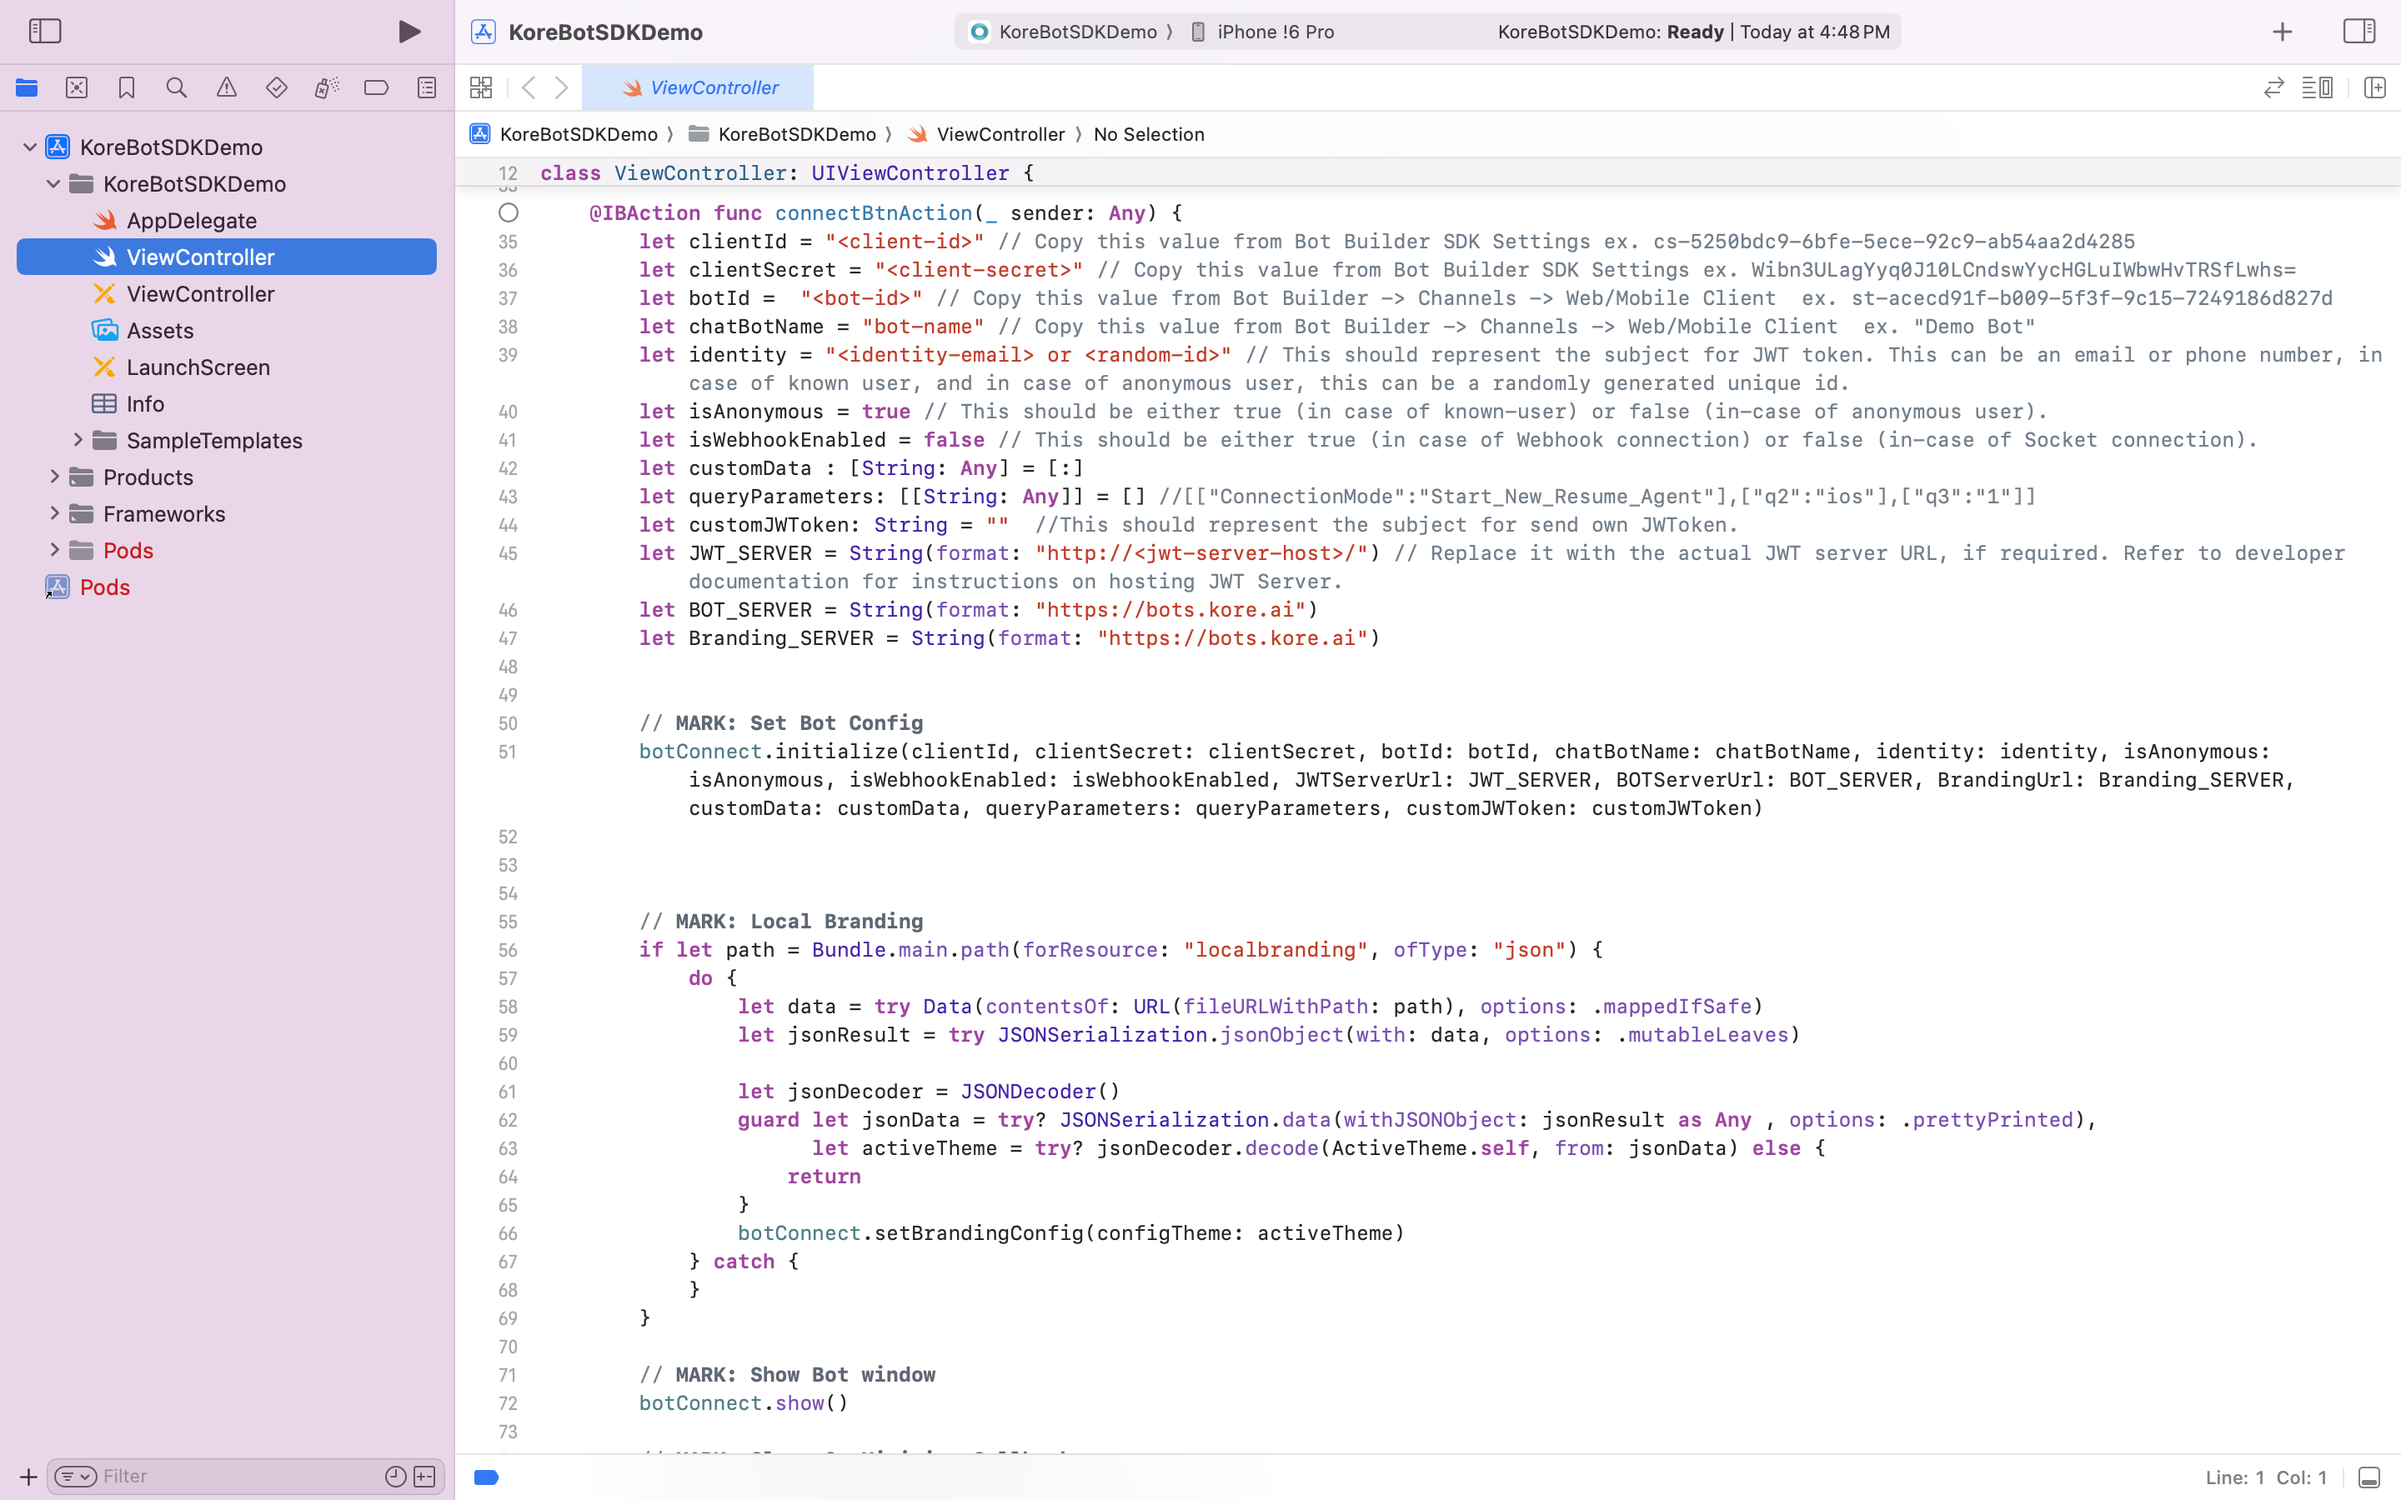
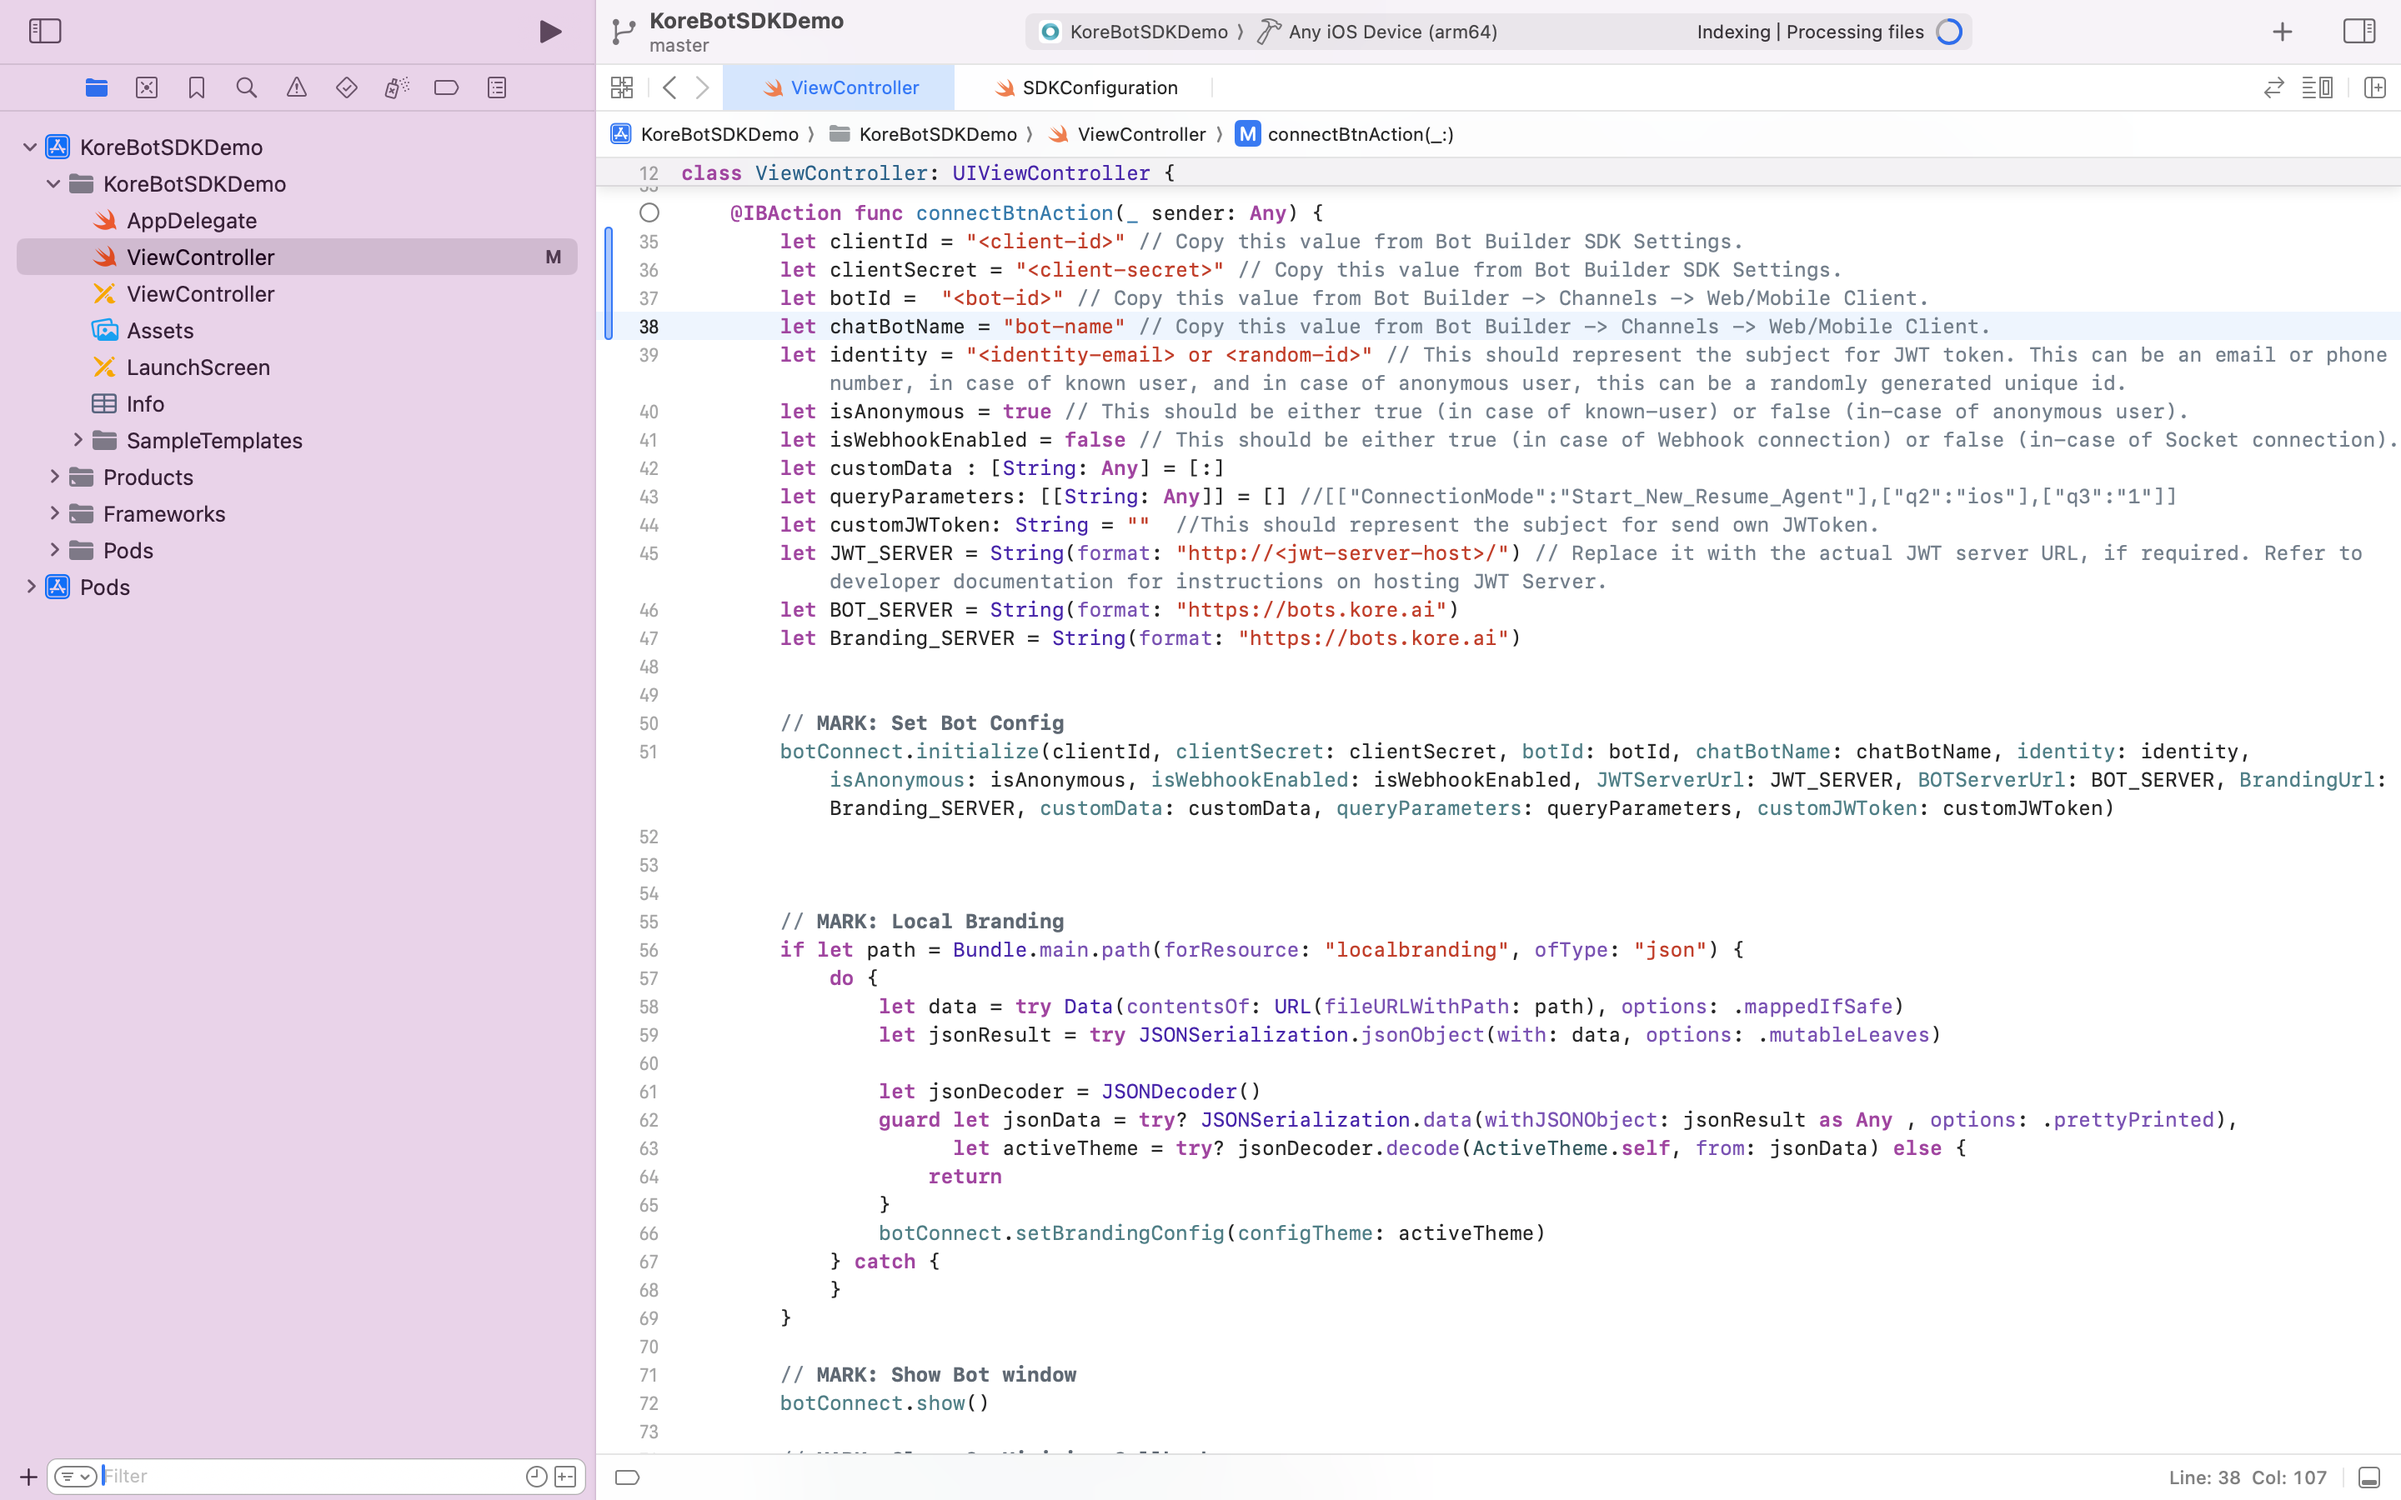
Updated integration document

diff --git a/Sources/KoreBotSDK/AppKit/Common/SDKConfiguration.swift b/Sources/KoreBotSDK/AppKit/Common/SDKConfiguration.swift
@@ -16,13 +16,13 @@ class SDKConfiguration: NSObject {
     }
     
     struct botConfig {
-        public static var clientId = "<client-id>" // Copy this value from Bot Builder SDK Settings ex. cs-5250bdc9-6bfe-5ece-92c9-ab54aa2d4285
+        public static var clientId = "<client-id>" // Copy this value from Bot Builder SDK Settings.
         
-        public static var clientSecret = "<client-secret>" // Copy this value from Bot Builder SDK Settings ex. Wibn3ULagYyq0J10LCndswYycHGLuIWbwHvTRSfLwhs=
+        public static var clientSecret = "<client-secret>" // Copy this value from Bot Builder SDK Settings.
         
-        public static var botId =  "<bot-id>" // Copy this value from Bot Builder -> Channels -> Web/Mobile Client  ex. st-acecd91f-b009-5f3f-9c15-7249186d827d
+        public static var botId =  "<bot-id>" // Copy this value from Bot Builder -> Channels -> Web/Mobile Client.
 
-        public static var chatBotName = "bot-name" // Copy this value from Bot Builder -> Channels -> Web/Mobile Client  ex. "Demo Bot"
+        public static var chatBotName = "bot-name" // Copy this value from Bot Builder -> Channels -> Web/Mobile Client.
         
         public static var identity = "<identity-email> or <random-id>"// This should represent the subject for JWT token. This can be an email or phone number, in case of known user, and in case of anonymous user, this can be a randomly generated unique id.
         
@@ -62,13 +62,13 @@ class SDKConfiguration: NSObject {
     }
    
     struct widgetConfig {
-        static let clientId = "<client-id>" // Copy this value from Bot Builder SDK Settings ex. cs-5250bdc9-6bfe-5ece-92c9-ab54aa2d4285
+        static let clientId = "<client-id>" // Copy this value from Bot Builder SDK Settings.
         
-        static let clientSecret = "<client-secret>" // Copy this value from Bot Builder SDK Settings ex. Wibn3ULagYyq0J10LCndswYycHGLuIWbwHvTRSfLwhs=
+        static let clientSecret = "<client-secret>" // Copy this value from Bot Builder SDK Settings.
         
-        static let botId =  "<bot-id>" // Copy this value from Bot Builder -> Channels -> Web/Mobile Client  ex. st-acecd91f-b009-5f3f-9c15-7249186d827d
+        static let botId =  "<bot-id>" // Copy this value from Bot Builder -> Channels -> Web/Mobile Client.
 
-        static let chatBotName = "bot-name" // Copy this value from Bot Builder -> Channels -> Web/Mobile Client  ex. "Demo Bot"
+        static let chatBotName = "bot-name" // Copy this value from Bot Builder -> Channels -> Web/Mobile Client.
         
         static let identity = "<identity-email> or <random-id>"// This should represent the subject for JWT token. This can be an email or phone number, in case of known user, and in case of anonymous user, this can be a randomly generated unique id.
         

diff --git a/Examples/CocoapodsDemo/KoreBotSDKDemo/ViewController.swift b/Examples/CocoapodsDemo/KoreBotSDKDemo/ViewController.swift
@@ -32,10 +32,10 @@ class ViewController: UIViewController {
      */
     
     @IBAction func connectBtnAction(_ sender: Any) {
-        let clientId = "<client-id>" // Copy this value from Bot Builder SDK Settings ex. cs-5250bdc9-6bfe-5ece-92c9-ab54aa2d4285
-        let clientSecret = "<client-secret>" // Copy this value from Bot Builder SDK Settings ex. Wibn3ULagYyq0J10LCndswYycHGLuIWbwHvTRSfLwhs=
-        let botId =  "<bot-id>" // Copy this value from Bot Builder -> Channels -> Web/Mobile Client  ex. st-acecd91f-b009-5f3f-9c15-7249186d827d
-        let chatBotName = "bot-name" // Copy this value from Bot Builder -> Channels -> Web/Mobile Client  ex. "Demo Bot"
+        let clientId = "<client-id>" // Copy this value from Bot Builder SDK Settings.
+        let clientSecret = "<client-secret>" // Copy this value from Bot Builder SDK Settings.
+        let botId =  "<bot-id>" // Copy this value from Bot Builder -> Channels -> Web/Mobile Client.
+        let chatBotName = "bot-name" // Copy this value from Bot Builder -> Channels -> Web/Mobile Client.
         let identity = "<identity-email> or <random-id>" // This should represent the subject for JWT token. This can be an email or phone number, in case of known user, and in case of anonymous user, this can be a randomly generated unique id.
         let isAnonymous = true // This should be either true (in case of known-user) or false (in-case of anonymous user).
         let isWebhookEnabled = false // This should be either true (in case of Webhook connection) or false (in-case of Socket connection).

diff --git a/README.md b/README.md
@@ -36,12 +36,12 @@ Kore Bot SDK for iOS enables you to talk to Kore bots over a web socket. This re
 ![SDKConfiguration setup](https://github.com/Koredotcom/iOS-kore-sdk/blob/master/sdk_configuration.png)
 
 
-Client id - Copy this id from Bot Builder SDK Settings ex. cs-5250bdc9-6bfe-5ece-92c9-ab54aa2d4285
+Client id - Copy this id from Bot Builder SDK Settings.
  ```
  static let clientId = "<client-id>"
  ```
 
-Client secret - copy this value from Bot Builder SDK Settings ex. Wibn3ULagYyq0J10LCndswYycHGLuIWbwHvTRSfLwhs=
+Client secret - copy this value from Bot Builder SDK Settings.
  ```
 static let clientSecret = "<client-secret>"
  ```
@@ -51,12 +51,12 @@ User identity - this should represent the subject for JWT token that could be an
 static let identity = "<user@example.com>"
  ```
 
-Bot name - copy this value from Bot Builder -> Channels -> Web/Mobile SDK config  ex. "Demo Bot"
+Bot name - copy this value from Bot Builder -> Channels -> Web/Mobile SDK config.
  ```
 static let chatBotName = "<bot-name>"
  ```
 
-Bot Id - copy this value from Bot Builder -> Channels -> Web/Mobile SDK config  ex. st-acecd91f-b009-5f3f-9c15-7249186d827d
+Bot Id - copy this value from Bot Builder -> Channels -> Web/Mobile SDK config.
  ```
 static let botId = "<bot-id>"
  ```
@@ -99,10 +99,10 @@ Enable the webhook channel - This should be either true (in case of Webhook conn
         2. let botConnect = BotConnect() 
         3. Add below lines in button action method
         
-                let clientId = "<client-id>" // Copy this value from Bot Builder SDK Settings ex. cs-5250bdc9-6bfe-5ece-92c9-ab54aa2d4285
-        let clientSecret = "<client-secret>" // Copy this value from Bot Builder SDK Settings ex. Wibn3ULagYyq0J10LCndswYycHGLuIWbwHvTRSfLwhs=
-        let botId =  "<bot-id>" // Copy this value from Bot Builder -> Channels -> Web/Mobile Client  ex. st-acecd91f-b009-5f3f-9c15-7249186d827d
-        let chatBotName = "bot-name" // Copy this value from Bot Builder -> Channels -> Web/Mobile Client  ex. "Demo Bot"
+                let clientId = "<client-id>" // Copy this value from Bot Builder SDK Settings.
+        let clientSecret = "<client-secret>" // Copy this value from Bot Builder SDK Settings.
+        let botId =  "<bot-id>" // Copy this value from Bot Builder -> Channels -> Web/Mobile Client.
+        let chatBotName = "bot-name" // Copy this value from Bot Builder -> Channels -> Web/Mobile Client.
         let identity = "<identity-email> or <random-id>" // This should represent the subject for JWT token. This can be an email or phone number, in case of known user, and in case of anonymous user, this can be a randomly generated unique id.
         let isAnonymous = true // This should be either true (in case of known-user) or false (in-case of anonymous user).
         let isWebhookEnabled = false // This should be either true (in case of Webhook connection) or false (in-case of Socket connection).
@@ -155,10 +155,10 @@ Enable the webhook channel - This should be either true (in case of Webhook conn
         2. let botConnect = BotConnect() 
         3. Add below lines in button action method
         
-                let clientId = "<client-id>" // Copy this value from Bot Builder SDK Settings ex. cs-5250bdc9-6bfe-5ece-92c9-ab54aa2d4285
-        let clientSecret = "<client-secret>" // Copy this value from Bot Builder SDK Settings ex. Wibn3ULagYyq0J10LCndswYycHGLuIWbwHvTRSfLwhs=
-        let botId =  "<bot-id>" // Copy this value from Bot Builder -> Channels -> Web/Mobile Client  ex. st-acecd91f-b009-5f3f-9c15-7249186d827d
-        let chatBotName = "bot-name" // Copy this value from Bot Builder -> Channels -> Web/Mobile Client  ex. "Demo Bot"
+        let clientId = "<client-id>" // Copy this value from Bot Builder SDK Settings.
+        let clientSecret = "<client-secret>" // Copy this value from Bot Builder SDK Settings.
+        let botId =  "<bot-id>" // Copy this value from Bot Builder -> Channels -> Web/Mobile Client.
+        let chatBotName = "bot-name" // Copy this value from Bot Builder -> Channels -> Web/Mobile Client.
         let identity = "<identity-email> or <random-id>" // This should represent the subject for JWT token. This can be an email or phone number, in case of known user, and in case of anonymous user, this can be a randomly generated unique id.
         let isAnonymous = true // This should be either true (in case of known-user) or false (in-case of anonymous user).
         let isWebhookEnabled = false // This should be either true (in case of Webhook connection) or false (in-case of Socket connection).
@@ -207,10 +207,10 @@ Enable the webhook channel - This should be either true (in case of Webhook conn
         2. let botConnect = BotConnect() 
         3. Add below lines in button action method
         
-        let clientId = "<client-id>" // Copy this value from Bot Builder SDK Settings ex. cs-5250bdc9-6bfe-5ece-92c9-ab54aa2d4285
-        let clientSecret = "<client-secret>" // Copy this value from Bot Builder SDK Settings ex. Wibn3ULagYyq0J10LCndswYycHGLuIWbwHvTRSfLwhs=
-        let botId =  "<bot-id>" // Copy this value from Bot Builder -> Channels -> Web/Mobile Client  ex. st-acecd91f-b009-5f3f-9c15-7249186d827d
-        let chatBotName = "bot-name" // Copy this value from Bot Builder -> Channels -> Web/Mobile Client  ex. "Demo Bot"
+        let clientId = "<client-id>" // Copy this value from Bot Builder SDK Settings.
+        let clientSecret = "<client-secret>" // Copy this value from Bot Builder SDK Settings.
+        let botId =  "<bot-id>" // Copy this value from Bot Builder -> Channels -> Web/Mobile Client.
+        let chatBotName = "bot-name" // Copy this value from Bot Builder -> Channels -> Web/Mobile Client.
         let identity = "<identity-email> or <random-id>" // This should represent the subject for JWT token. This can be an email or phone number, in case of known user, and in case of anonymous user, this can be a randomly generated unique id.
         let isAnonymous = true // This should be either true (in case of known-user) or false (in-case of anonymous user).
         let isWebhookEnabled = true  // This should be either true (in case of Webhook connection) or false (in-case of Socket connection).
